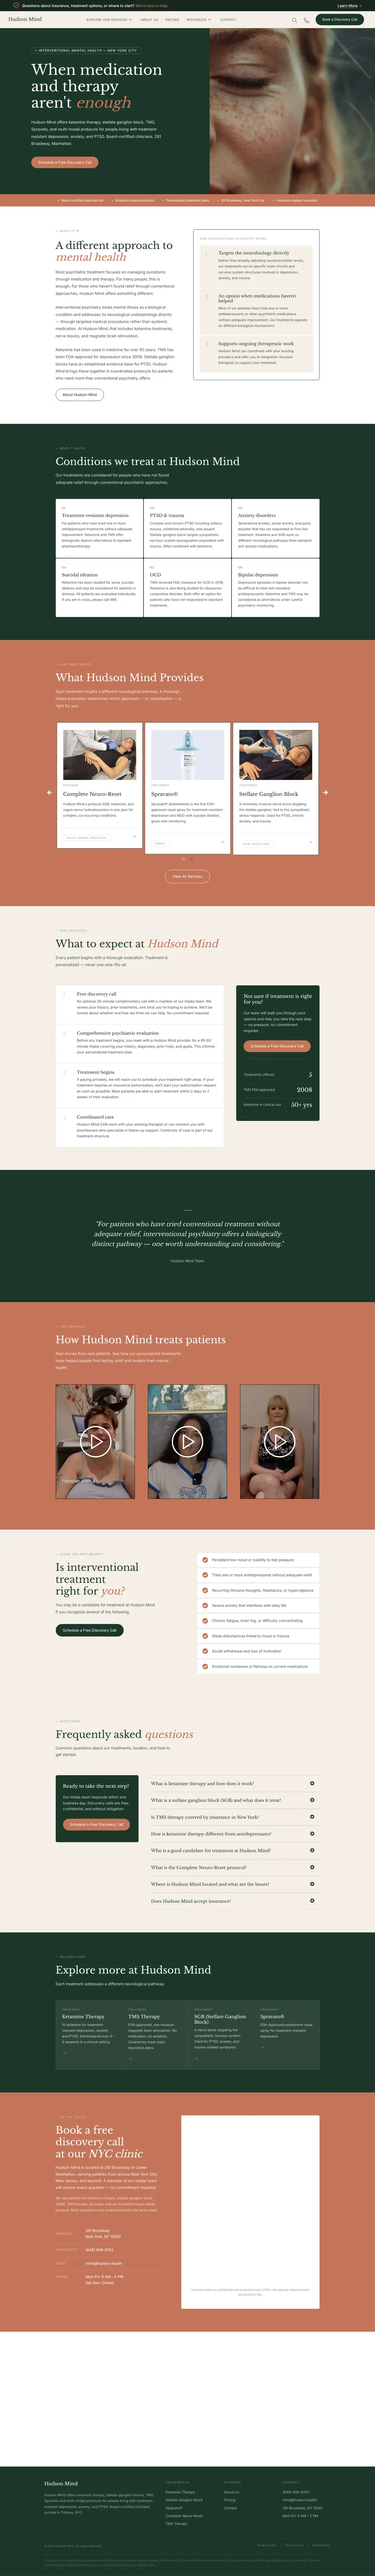
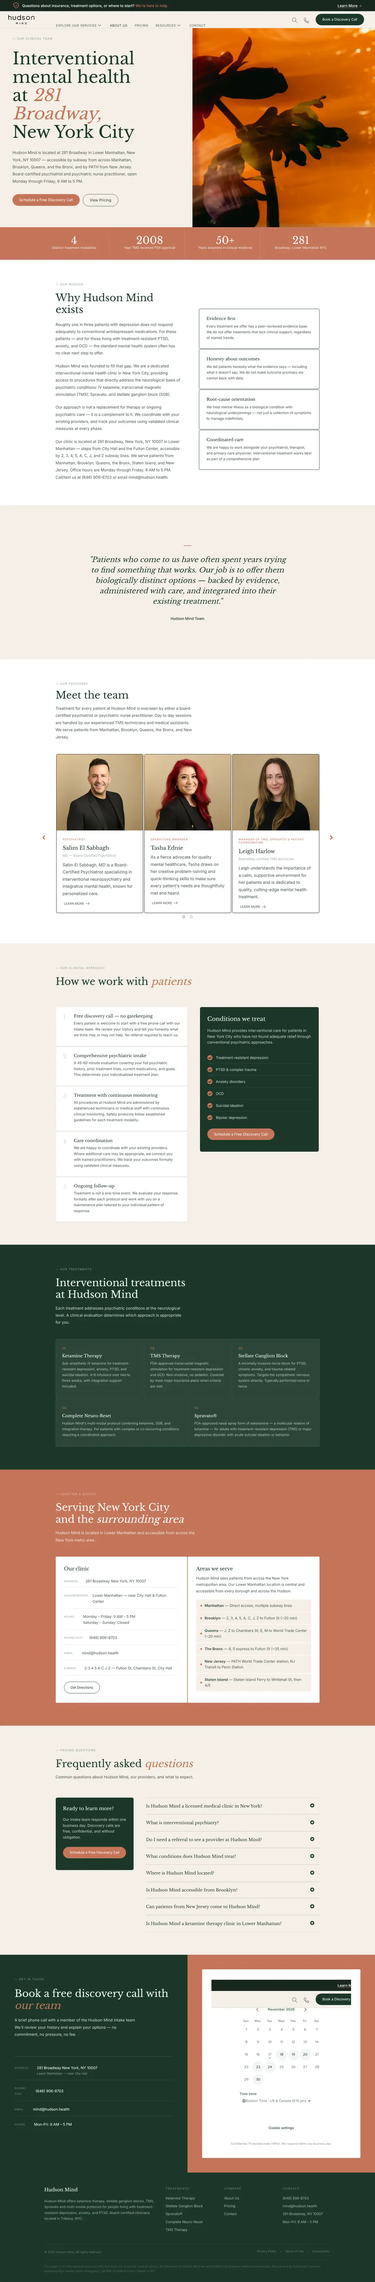
Featured Work: Hudson Mind About page, scrollable previews, realistic phone, minimal arrows

diff --git a/index.html b/index.html
@@ -416,22 +416,23 @@ j=d.createElement(s),dl=l!='dataLayer'?'&l='+l:'';j.async=true;j.src=
   .showcase-slide.is-active{opacity:1; visibility:visible; transform:none; transition:opacity .5s ease, transform .5s ease;}
   .showcase-slide.from-left:not(.is-active){transform:translateX(-24px);}
   .showcase-controls{
-    position:absolute; left:0; bottom:0; display:flex; align-items:center; gap:14px; z-index:2;
+    position:absolute; left:0; bottom:0; display:flex; align-items:center; gap:8px; z-index:2;
   }
   .showcase-arrow{
-    width:48px; height:48px; display:grid; place-items:center; cursor:pointer;
-    background:transparent; color:#fff; border:1px solid rgba(187,193,252,0.35);
-    transition:background .2s ease, border-color .2s ease, color .2s ease;
+    width:44px; height:44px; display:grid; place-items:center; cursor:pointer;
+    background:none; border:0; padding:0; color:#fff;
+    transition:color .2s ease, transform .2s ease;
   }
-  .showcase-arrow:hover{background:var(--coral-400); border-color:var(--coral-400);}
-  .showcase-count{font-family:var(--mono); font-size:0.8rem; color:var(--lavender-200); letter-spacing:0.08em;}
-  .showcase-count #showcase-current{color:#fff;}
-  .showcase-info{padding-bottom:88px;}
+  .showcase-arrow:first-child{margin-left:-9px;}
+  .showcase-arrow:hover{color:var(--coral-400);}
+  .showcase-arrow[data-dir="-1"]:hover{transform:translateX(-3px);}
+  .showcase-arrow[data-dir="1"]:hover{transform:translateX(3px);}
+  .visually-hidden{position:absolute; width:1px; height:1px; overflow:hidden; clip:rect(0 0 0 0); white-space:nowrap;}
+  .showcase-info{padding-bottom:80px;}
   @media (max-width:900px){
     .showcase-slide{grid-template-columns:1fr; gap:20px;}
-    .showcase-devices{justify-content:flex-start; min-height:auto;}
     .showcase-info{padding-bottom:0;}
-    .showcase-controls{position:static; margin-top:64px;}
+    .showcase-controls{position:static; margin-top:56px;}
   }
   .showcase-info span.service-tag{margin-bottom:14px; color:var(--periwinkle-400);}
   .showcase-info h3{
@@ -440,8 +441,8 @@ j=d.createElement(s),dl=l!='dataLayer'?'&l='+l:'';j.async=true;j.src=
   }
   .showcase-info p{color:var(--lavender-200); font-size:1rem; line-height:1.65; margin-bottom:30px; max-width:42ch;}
 
-  .showcase-devices{position:relative; display:flex; align-items:flex-end; justify-content:center; min-height:420px;}
-  @media (max-width:900px){ .showcase-devices{justify-content:flex-start; min-height:auto; padding-bottom:36px;} }
+  .showcase-devices{position:relative; display:flex; align-items:flex-end; justify-content:center; min-height:440px;}
+  @media (max-width:900px){ .showcase-devices{justify-content:flex-start; min-height:auto; padding-bottom:48px;} }
   .device-desktop{
     width:100%; max-width:520px; background:var(--plum-800);
     border-radius:0; overflow:hidden;
@@ -449,30 +450,51 @@ j=d.createElement(s),dl=l!='dataLayer'?'&l='+l:'';j.async=true;j.src=
   }
   .device-bar{display:flex; gap:6px; padding:10px 14px; background:var(--indigo-950);}
   .device-bar span{width:7px;height:7px;border-radius:50%;background:rgba(255,255,255,0.3);}
-  .device-desktop .device-screen{height:290px; overflow:hidden; position:relative; background:#fff;}
 
+  /* Scrollable screens: auto-scroll via JS, visitors can scroll them by hand */
+  .device-screen{
+    position:relative; background:#fff;
+    overflow-y:auto; overflow-x:hidden; overscroll-behavior-y:auto;
+    scrollbar-width:none; -ms-overflow-style:none;
+    cursor:ns-resize;
+  }
+  .device-screen::-webkit-scrollbar{display:none;}
+  .device-screen img{display:block; width:100%; max-width:none; height:auto; user-select:none; -webkit-user-drag:none;}
+  .device-screen:focus-visible{outline:2px solid var(--coral-400); outline-offset:-2px;}
+  .device-desktop .device-screen{height:290px;}
+
+  /* Phone: modern smartphone with rounded titanium frame, island and side buttons */
   .device-phone{
-    position:absolute; right:2%; bottom:-36px; width:148px;
-    background:#111; border-radius:0; padding:7px;
-    border:3px solid rgba(187,193,252,0.16);
+    position:absolute; right:1%; bottom:-48px; width:158px;
+    padding:5px; border-radius:30px;
+    background:linear-gradient(145deg, #5b5b66 0%, #2a2a31 22%, #18181c 50%, #2a2a31 78%, #5b5b66 100%);
+    box-shadow:0 30px 60px -18px rgba(0,0,0,0.65), 0 10px 24px -10px rgba(0,0,0,0.5), inset 0 0 0 1px rgba(255,255,255,0.08);
   }
-  .device-notch{width:46%; height:14px; background:#111; border-radius:0; margin:0 auto;}
-  .device-phone .device-screen{height:266px; overflow:hidden; border-radius:0; position:relative; background:#fff; margin-top:4px;}
-
-  .device-desktop .device-screen{--screen-h:290px;}
-  .device-phone .device-screen{--screen-h:266px;}
-  .scroll-image{
-    position:absolute; top:0; left:0; width:100%; max-width:none; height:auto;
-    animation:scrollY var(--scroll-dur, 20s) ease-in-out infinite;
-    animation-play-state:paused; will-change:transform;
+  .phone-body{
+    position:relative; background:#050506; border-radius:25px; padding:5px;
+    box-shadow:inset 0 0 0 1px rgba(255,255,255,0.05);
   }
-  .showcase-slide.is-active .scroll-image{animation-play-state:running;}
-  .device-screen:hover .scroll-image{animation-play-state:paused;}
-  @keyframes scrollY{
-    0%, 8%{transform:translateY(0);}
-    46%, 54%{transform:translateY(calc(-100% + var(--screen-h)));}
-    92%, 100%{transform:translateY(0);}
+  .device-phone .device-screen{height:300px; border-radius:20px; -webkit-mask-image:-webkit-radial-gradient(white, black);}
+  .phone-island{
+    position:absolute; top:11px; left:50%; transform:translateX(-50%); z-index:2;
+    width:44px; height:13px; border-radius:10px; background:#000;
+    pointer-events:none;
   }
+  .phone-island::after{
+    content:''; position:absolute; right:5px; top:50%; transform:translateY(-50%);
+    width:5px; height:5px; border-radius:50%;
+    background:radial-gradient(circle at 35% 35%, #3a4a7a 0%, #0c0f1d 60%);
+  }
+  .phone-home{
+    position:absolute; bottom:9px; left:50%; transform:translateX(-50%); z-index:2;
+    width:48px; height:3px; border-radius:3px; background:rgba(0,0,0,0.55);
+    pointer-events:none;
+  }
+  .phone-btn{position:absolute; width:3px; border-radius:2px; background:linear-gradient(90deg,#2a2a31,#5b5b66);}
+  .phone-btn-action{left:-2px; top:62px; height:16px; border-radius:2px 0 0 2px;}
+  .phone-btn-vol-up{left:-2px; top:92px; height:30px; border-radius:2px 0 0 2px;}
+  .phone-btn-vol-down{left:-2px; top:130px; height:30px; border-radius:2px 0 0 2px;}
+  .phone-btn-power{right:-2px; top:104px; height:44px; border-radius:0 2px 2px 0; background:linear-gradient(90deg,#5b5b66,#2a2a31);}
 
   .work-note{
     margin-top:44px; font-size:0.85rem; color:var(--lavender-200); opacity:0.8;
@@ -755,16 +777,20 @@ height="0" width="0" style="display:none;visibility:hidden"></iframe></noscript>
         <div class="showcase-info">
           <span class="service-tag">Healthcare · Longevity</span>
           <h3>Extension Health</h3>
-          <a href="https://extension.health/" class="btn btn-primary" target="_blank" rel="noopener">Learn more <span aria-hidden="true">↗</span></a>
+          <a href="https://extension.health/" class="btn btn-primary" target="_blank" rel="noopener">Learn more</a>
         </div>
         <div class="showcase-devices">
           <div class="device-desktop">
             <div class="device-bar"><span></span><span></span><span></span></div>
-            <div class="device-screen"><img class="scroll-image" src="work/extension-health-desktop.webp" alt="Extension Health website on desktop" loading="lazy" decoding="async"></div>
+            <div class="device-screen" tabindex="0" aria-label="Scrollable preview of the Extension Health website on desktop"><img src="work/extension-health-desktop.webp" alt="Extension Health website on desktop" loading="lazy" decoding="async"></div>
           </div>
           <div class="device-phone">
-            <div class="device-notch"></div>
-            <div class="device-screen"><img class="scroll-image" src="work/extension-health-mobile.webp" alt="Extension Health website on mobile" loading="lazy" decoding="async"></div>
+            <span class="phone-btn phone-btn-action"></span><span class="phone-btn phone-btn-vol-up"></span><span class="phone-btn phone-btn-vol-down"></span><span class="phone-btn phone-btn-power"></span>
+            <div class="phone-body">
+              <div class="phone-island"></div>
+              <div class="device-screen" tabindex="0" aria-label="Scrollable preview of the Extension Health website on mobile"><img src="work/extension-health-mobile.webp" alt="Extension Health website on mobile" loading="lazy" decoding="async"></div>
+              <div class="phone-home"></div>
+            </div>
           </div>
         </div>
       </div>
@@ -772,62 +798,74 @@ height="0" width="0" style="display:none;visibility:hidden"></iframe></noscript>
         <div class="showcase-info">
           <span class="service-tag">Healthcare · Pain management</span>
           <h3>Hudson Medical</h3>
-          <a href="https://medical.hudson.health/" class="btn btn-primary" target="_blank" rel="noopener">Learn more <span aria-hidden="true">↗</span></a>
+          <a href="https://medical.hudson.health/" class="btn btn-primary" target="_blank" rel="noopener">Learn more</a>
         </div>
         <div class="showcase-devices">
           <div class="device-desktop">
             <div class="device-bar"><span></span><span></span><span></span></div>
-            <div class="device-screen"><img class="scroll-image" src="work/hudson-medical-desktop.webp" alt="Hudson Medical website on desktop" loading="lazy" decoding="async"></div>
+            <div class="device-screen" tabindex="0" aria-label="Scrollable preview of the Hudson Medical website on desktop"><img src="work/hudson-medical-desktop.webp" alt="Hudson Medical website on desktop" loading="lazy" decoding="async"></div>
           </div>
           <div class="device-phone">
-            <div class="device-notch"></div>
-            <div class="device-screen"><img class="scroll-image" src="work/hudson-medical-mobile.webp" alt="Hudson Medical website on mobile" loading="lazy" decoding="async"></div>
+            <span class="phone-btn phone-btn-action"></span><span class="phone-btn phone-btn-vol-up"></span><span class="phone-btn phone-btn-vol-down"></span><span class="phone-btn phone-btn-power"></span>
+            <div class="phone-body">
+              <div class="phone-island"></div>
+              <div class="device-screen" tabindex="0" aria-label="Scrollable preview of the Hudson Medical website on mobile"><img src="work/hudson-medical-mobile.webp" alt="Hudson Medical website on mobile" loading="lazy" decoding="async"></div>
+              <div class="phone-home"></div>
+            </div>
           </div>
         </div>
       </div>
-      <div class="showcase-slide" role="group" aria-roledescription="slide" aria-label="3 of 4: Hudson Mind" aria-hidden="true" inert>
-        <div class="showcase-info">
-          <span class="service-tag">Healthcare · Mental health</span>
-          <h3>Hudson Mind</h3>
-          <a href="https://mind.hudson.health/" class="btn btn-primary" target="_blank" rel="noopener">Learn more <span aria-hidden="true">↗</span></a>
-        </div>
-        <div class="showcase-devices">
-          <div class="device-desktop">
-            <div class="device-bar"><span></span><span></span><span></span></div>
-            <div class="device-screen"><img class="scroll-image" src="work/hudson-mind-desktop.webp" alt="Hudson Mind website on desktop" loading="lazy" decoding="async"></div>
-          </div>
-          <div class="device-phone">
-            <div class="device-notch"></div>
-            <div class="device-screen"><img class="scroll-image" src="work/hudson-mind-mobile.webp" alt="Hudson Mind website on mobile" loading="lazy" decoding="async"></div>
-          </div>
-        </div>
-      </div>
-      <div class="showcase-slide" role="group" aria-roledescription="slide" aria-label="4 of 4: Symbiome" aria-hidden="true" inert>
+      <div class="showcase-slide" role="group" aria-roledescription="slide" aria-label="3 of 4: Symbiome" aria-hidden="true" inert>
         <div class="showcase-info">
           <span class="service-tag">Skincare · E-commerce</span>
           <h3>Symbiome</h3>
-          <a href="https://symbiome.com/" class="btn btn-primary" target="_blank" rel="noopener">Learn more <span aria-hidden="true">↗</span></a>
+          <a href="https://symbiome.com/" class="btn btn-primary" target="_blank" rel="noopener">Learn more</a>
         </div>
         <div class="showcase-devices">
           <div class="device-desktop">
             <div class="device-bar"><span></span><span></span><span></span></div>
-            <div class="device-screen"><img class="scroll-image" src="work/symbiome-desktop.webp" alt="Symbiome website on desktop" loading="lazy" decoding="async"></div>
+            <div class="device-screen" tabindex="0" aria-label="Scrollable preview of the Symbiome website on desktop"><img src="work/symbiome-desktop.webp" alt="Symbiome website on desktop" loading="lazy" decoding="async"></div>
           </div>
           <div class="device-phone">
-            <div class="device-notch"></div>
-            <div class="device-screen"><img class="scroll-image" src="work/symbiome-mobile.webp" alt="Symbiome website on mobile" loading="lazy" decoding="async"></div>
+            <span class="phone-btn phone-btn-action"></span><span class="phone-btn phone-btn-vol-up"></span><span class="phone-btn phone-btn-vol-down"></span><span class="phone-btn phone-btn-power"></span>
+            <div class="phone-body">
+              <div class="phone-island"></div>
+              <div class="device-screen" tabindex="0" aria-label="Scrollable preview of the Symbiome website on mobile"><img src="work/symbiome-mobile.webp" alt="Symbiome website on mobile" loading="lazy" decoding="async"></div>
+              <div class="phone-home"></div>
+            </div>
+          </div>
+        </div>
+      </div>
+      <div class="showcase-slide" role="group" aria-roledescription="slide" aria-label="4 of 4: Hudson Mind" aria-hidden="true" inert>
+        <div class="showcase-info">
+          <span class="service-tag">Healthcare · Mental health</span>
+          <h3>Hudson Mind</h3>
+          <a href="https://mind.hudson.health/about-us/" class="btn btn-primary" target="_blank" rel="noopener">Learn more</a>
+        </div>
+        <div class="showcase-devices">
+          <div class="device-desktop">
+            <div class="device-bar"><span></span><span></span><span></span></div>
+            <div class="device-screen" tabindex="0" aria-label="Scrollable preview of the Hudson Mind website on desktop"><img src="work/hudson-mind-desktop.webp" alt="Hudson Mind website on desktop" loading="lazy" decoding="async"></div>
+          </div>
+          <div class="device-phone">
+            <span class="phone-btn phone-btn-action"></span><span class="phone-btn phone-btn-vol-up"></span><span class="phone-btn phone-btn-vol-down"></span><span class="phone-btn phone-btn-power"></span>
+            <div class="phone-body">
+              <div class="phone-island"></div>
+              <div class="device-screen" tabindex="0" aria-label="Scrollable preview of the Hudson Mind website on mobile"><img src="work/hudson-mind-mobile.webp" alt="Hudson Mind website on mobile" loading="lazy" decoding="async"></div>
+              <div class="phone-home"></div>
+            </div>
           </div>
         </div>
       </div>
     </div>
     <div class="showcase-controls">
       <button type="button" class="showcase-arrow" data-dir="-1" aria-label="Previous project">
-        <svg viewBox="0 0 24 24" width="20" height="20" fill="none" stroke="currentColor" stroke-width="2" aria-hidden="true"><path d="M15 5l-7 7 7 7"/></svg>
+        <svg viewBox="0 0 24 24" width="26" height="26" fill="none" stroke="currentColor" stroke-width="1.75" stroke-linecap="round" stroke-linejoin="round" aria-hidden="true"><path d="M19 12H5M11 6l-6 6 6 6"/></svg>
       </button>
-      <span class="showcase-count" aria-live="polite"><span id="showcase-current">01</span> / 04</span>
       <button type="button" class="showcase-arrow" data-dir="1" aria-label="Next project">
-        <svg viewBox="0 0 24 24" width="20" height="20" fill="none" stroke="currentColor" stroke-width="2" aria-hidden="true"><path d="M9 5l7 7-7 7"/></svg>
+        <svg viewBox="0 0 24 24" width="26" height="26" fill="none" stroke="currentColor" stroke-width="1.75" stroke-linecap="round" stroke-linejoin="round" aria-hidden="true"><path d="M5 12h14M13 6l6 6-6 6"/></svg>
       </button>
+      <span class="visually-hidden" aria-live="polite" id="showcase-status"></span>
     </div>
   </div>
 </section>
@@ -863,23 +901,54 @@ height="0" width="0" style="display:none;visibility:hidden"></iframe></noscript>
     const root = document.getElementById('showcase');
     if (!root) return;
     const slides = [...root.querySelectorAll('.showcase-slide')];
-    const counter = document.getElementById('showcase-current');
+    const status = document.getElementById('showcase-status');
+    const reduceMotion = window.matchMedia('(prefers-reduced-motion: reduce)').matches;
     let index = 0;
 
-    // Scroll speed scales with page length so long sites don't race by
-    const setDuration = img => {
-      const screen = img.parentElement.clientHeight;
-      const travel = img.clientHeight - screen;
-      if (travel > 0) img.style.setProperty('--scroll-dur', Math.max(14, travel / 70) + 's');
+    // ---- Auto-scrolling screens (visitors can take over by scrolling) ----
+    const SPEED = 90;          // px per second
+    const HOLD = 1600;         // ms pause at top and bottom
+    const screens = [...root.querySelectorAll('.device-screen')].map(el => ({
+      el, slide: el.closest('.showcase-slide'), pos: 0, dir: 1, holdUntil: 0, stopped: false, hover: false
+    }));
+
+    const stop = s => { s.stopped = true; };
+    screens.forEach(s => {
+      // Any manual scroll intent hands control to the visitor
+      ['wheel', 'touchstart', 'pointerdown', 'keydown'].forEach(evt =>
+        s.el.addEventListener(evt, () => stop(s), { passive: true }));
+      s.el.addEventListener('mouseenter', () => { s.hover = true; });
+      s.el.addEventListener('mouseleave', () => { s.hover = false; s.pos = s.el.scrollTop; });
+    });
+
+    const reset = slide => screens.forEach(s => {
+      if (s.slide !== slide) return;
+      s.el.scrollTop = 0; s.pos = 0; s.dir = 1; s.stopped = false;
+      s.holdUntil = performance.now() + HOLD;
+    });
+
+    let visible = false, last = 0, raf = null;
+    const tick = now => {
+      const dt = Math.min(64, now - (last || now)); last = now;
+      screens.forEach(s => {
+        if (s.slide !== slides[index] || s.stopped || s.hover || now < s.holdUntil) return;
+        const max = s.el.scrollHeight - s.el.clientHeight;
+        if (max <= 0) return;
+        s.pos += s.dir * SPEED * dt / 1000;
+        if (s.pos >= max) { s.pos = max; s.dir = -1; s.holdUntil = now + HOLD; }
+        else if (s.pos <= 0) { s.pos = 0; s.dir = 1; s.holdUntil = now + HOLD; }
+        s.el.scrollTop = s.pos;
+      });
+      raf = requestAnimationFrame(tick);
     };
-    root.querySelectorAll('.scroll-image').forEach(img => {
-      if (img.complete) setDuration(img); else img.addEventListener('load', () => setDuration(img), { once: true });
-    });
+    const run = () => {
+      const should = visible && !document.hidden && !reduceMotion;
+      if (should && !raf) { last = 0; raf = requestAnimationFrame(tick); }
+      if (!should && raf) { cancelAnimationFrame(raf); raf = null; }
+    };
+    document.addEventListener('visibilitychange', run);
 
-    const restart = slide => slide.querySelectorAll('.scroll-image').forEach(img => {
-      img.style.animation = 'none'; void img.offsetHeight; img.style.animation = '';
-    });
-
+    // ---- Slide navigation (loops endlessly in both directions) ----
     const go = (to, dir) => {
       const next = (to + slides.length) % slides.length;
       if (next === index) return;
@@ -893,35 +962,41 @@ height="0" width="0" style="display:none;visibility:hidden"></iframe></noscript>
       cur.classList.add('is-active');
       cur.removeAttribute('aria-hidden');
       cur.inert = false;
-      restart(cur);
-      counter.textContent = String(index + 1).padStart(2, '0');
+      reset(cur);
+      status.textContent = cur.getAttribute('aria-label');
     };
 
     root.querySelectorAll('.showcase-arrow').forEach(btn => {
       btn.addEventListener('click', () => { const d = +btn.dataset.dir; go(index + d, d); });
     });
     root.addEventListener('keydown', e => {
+      if (e.target.classList.contains('device-screen')) return;
       if (e.key === 'ArrowLeft') go(index - 1, -1);
       if (e.key === 'ArrowRight') go(index + 1, 1);
     });
 
+    // Horizontal swipe changes slides; vertical swipes on a screen scroll it
     let startX = null, startY = null;
     const track = root.querySelector('.showcase-track');
     track.addEventListener('touchstart', e => { startX = e.touches[0].clientX; startY = e.touches[0].clientY; }, { passive: true });
     track.addEventListener('touchend', e => {
       if (startX === null) return;
       const dx = e.changedTouches[0].clientX - startX, dy = e.changedTouches[0].clientY - startY;
-      if (Math.abs(dx) > 50 && Math.abs(dx) > Math.abs(dy)) go(index + (dx < 0 ? 1 : -1), dx < 0 ? 1 : -1);
+      if (Math.abs(dx) > 50 && Math.abs(dx) > Math.abs(dy) * 1.5) go(index + (dx < 0 ? 1 : -1), dx < 0 ? 1 : -1);
       startX = null;
     }, { passive: true });
 
-    // Preload the next project's screenshots once the section is near view
-    new IntersectionObserver((entries, obs) => {
-      if (entries.some(e => e.isIntersecting)) {
-        root.querySelectorAll('img[loading="lazy"]').forEach(img => img.loading = 'eager');
-        obs.disconnect();
-      }
+    // Load all screenshots once the section is near, and only animate while it's on screen
+    new IntersectionObserver(entries => {
+      entries.forEach(e => {
+        if (e.isIntersecting) root.querySelectorAll('img[loading="lazy"]').forEach(img => img.loading = 'eager');
+      });
     }, { rootMargin: '400px' }).observe(root);
+    new IntersectionObserver(entries => {
+      visible = entries[0].isIntersecting;
+      run();
+    }).observe(root);
+    reset(slides[0]);
   })();
 
   const benefitsData = {
